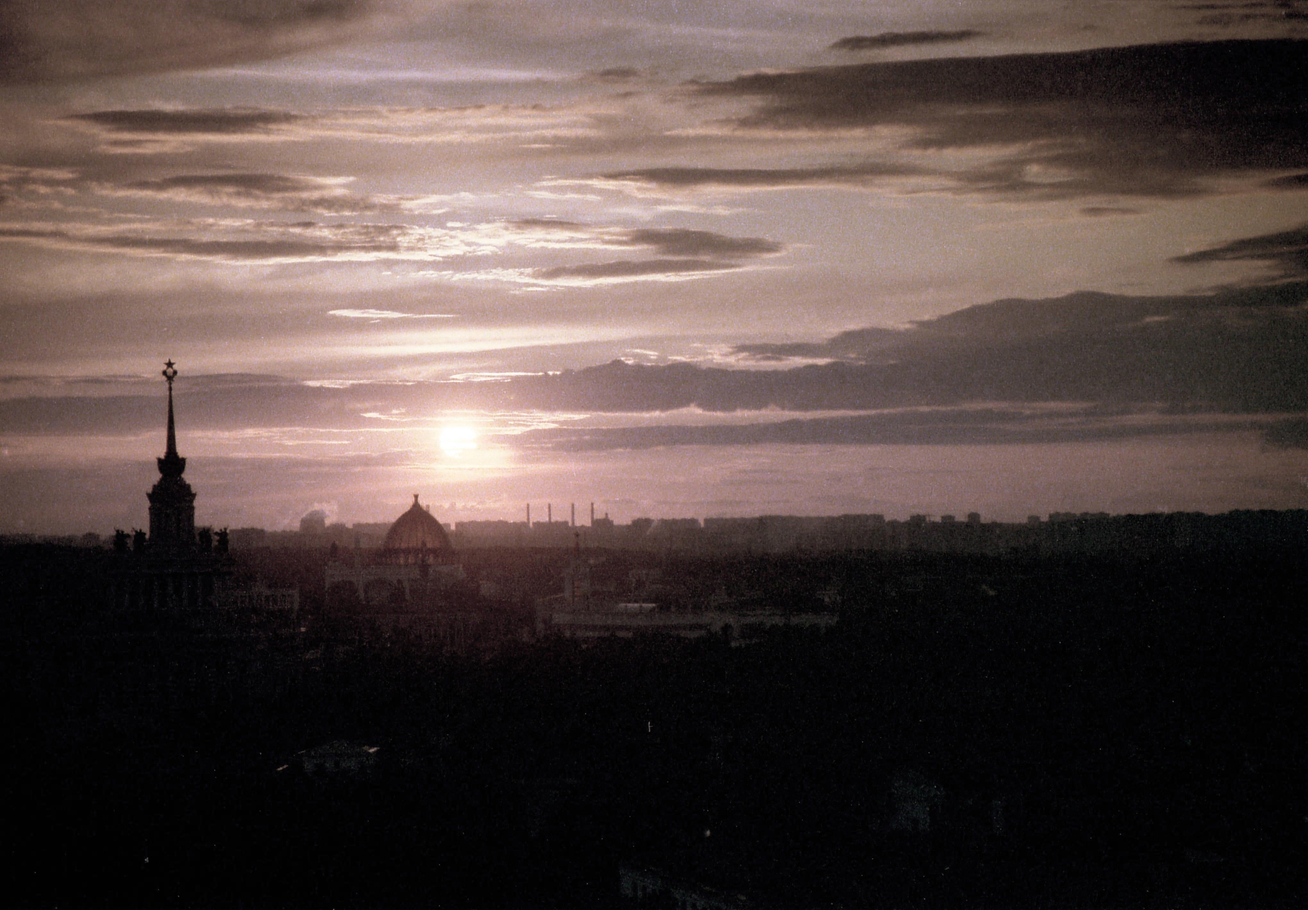
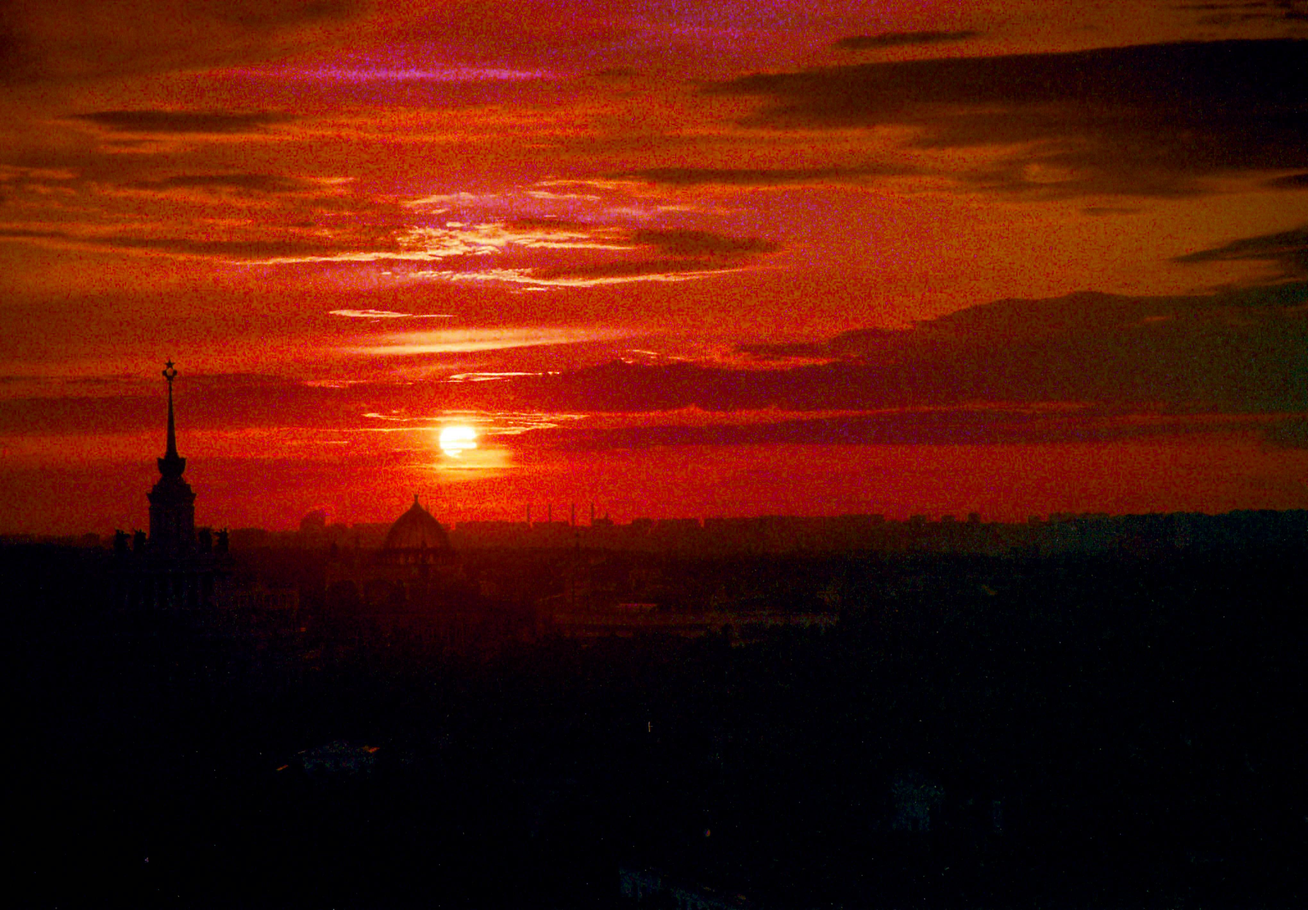
fixed saturation code to use numpy

diff --git a/backend/website/saturation_experiment.py b/backend/website/saturation_experiment.py
@@ -2,7 +2,10 @@
 # additional code for saturation experiment 
 
 from PIL import Image
+import PIL
 import sys
+import numpy as np
+
 
 '''
 THIS CODE IS UNUSED AS THE SAME CAN BE DONE SIMPLY IN CSS 
@@ -26,26 +29,54 @@ def bump_saturation(image, percent):
     # Get size
     width, height = image.size
 
-    # Create new Image and a pixel map
-    new = Image.new("HSV", (width, height))
-    pixels = new.load()
+    ''' 
+    NAIVE APPROACH, VERY SLOW
+    '''
 
-    # modify saturation
-    for i in range(width):
-        for j in range(height):
-            pixel = get_pixel(image, i, j)
-            print(i, j)
-            pixels[i, j] = (pixel[0], int(pixel[1]*percent), pixel[2])
+    # # Create new Image and a pixel map
+    # new = Image.new("HSV", (width, height))
+    # pixels = new.load()
 
-    # Return new image
-    return new
+    # # modify saturation
+    # for i in range(width):
+    #     for j in range(height):
+    #         pixel = get_pixel(image, i, j)
+    #         print(i, j)
+    #         pixels[i, j] = (pixel[0], int(pixel[1]*percent), pixel[2])
+
+    # # Return new image
+    # return new
+    
+    '''
+    NUMPY APPROACH, MUCH FASTER
+    '''
+
+    # convert original to a numpy array
+    img2arr = np.array(image)
+
+    # create delta array to multiply original by
+    darr = np.ones((height, width, 3))
+    
+    # set saturation deltas for each pixel
+    darr[:,:,1] = percent
+
+    # multiply original array by delta array
+    img2arr = np.multiply(img2arr, darr)
+
+    # set any values above 255 back to 255
+    img2arr = np.where(img2arr > 255, 255, img2arr)
+
+    # convert back to PIL Image
+    arr2im = Image.fromarray(img2arr.astype(np.uint8), mode="HSV")
+
+    return arr2im
 
 if __name__ == '__main__':
     if(len(sys.argv) > 1):
         path = sys.argv[1]
         if(len(sys.argv) > 2):
             percent = float(sys.argv[2])
-        else: percent = .5
+        else: percent = 1.5
         bump_saturation(Image.open(path), percent).convert("RGB").save("output.jpg", "JPEG")
     else: print("usage py filename.py imagepath sat_percent")
      
